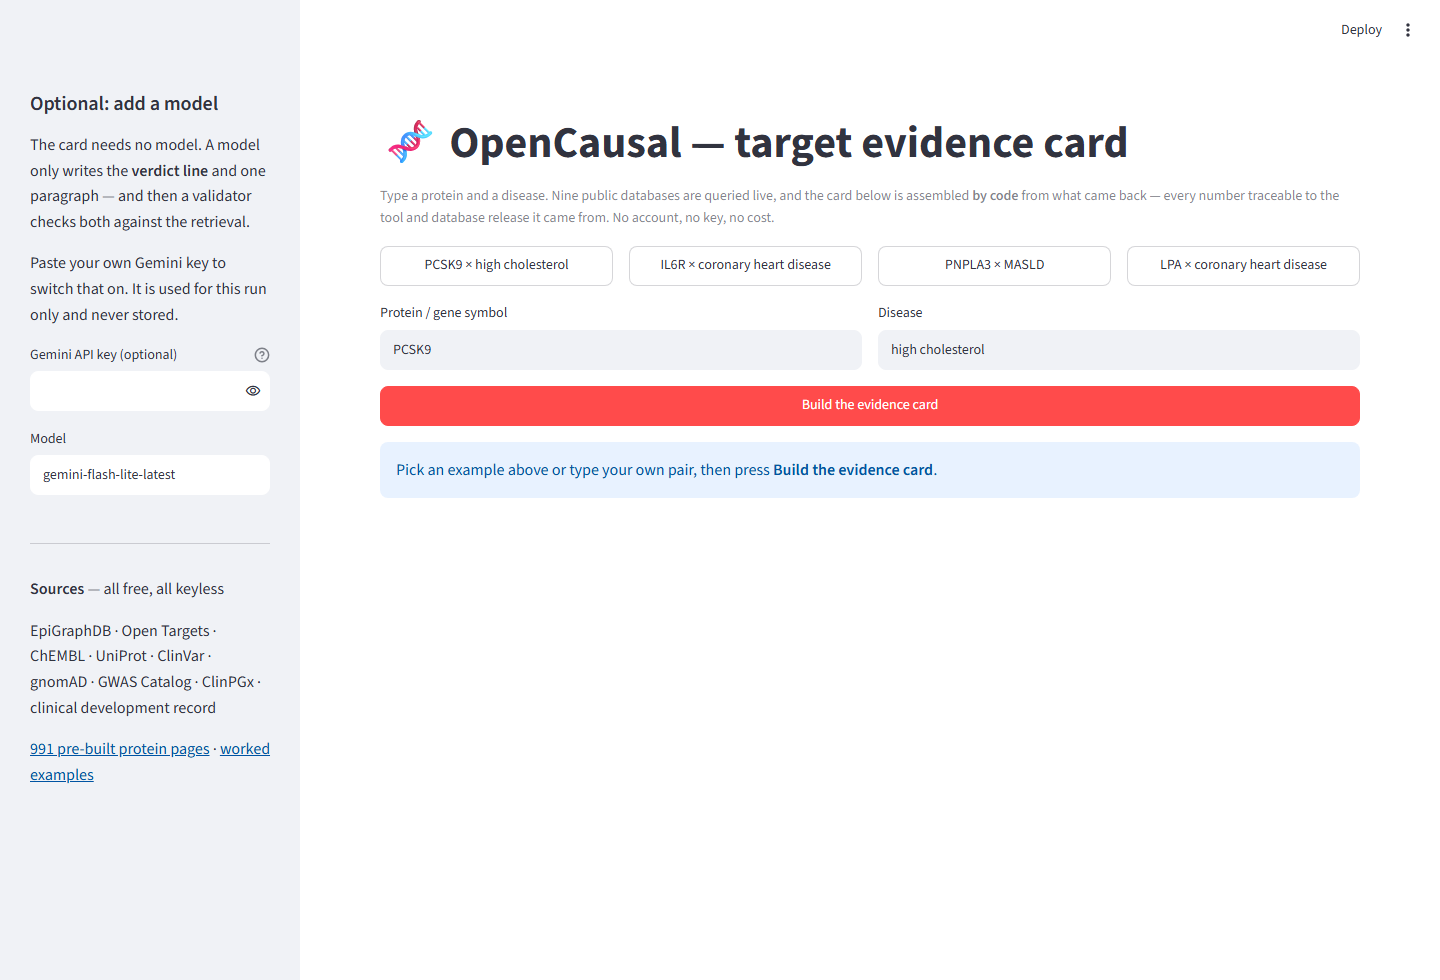
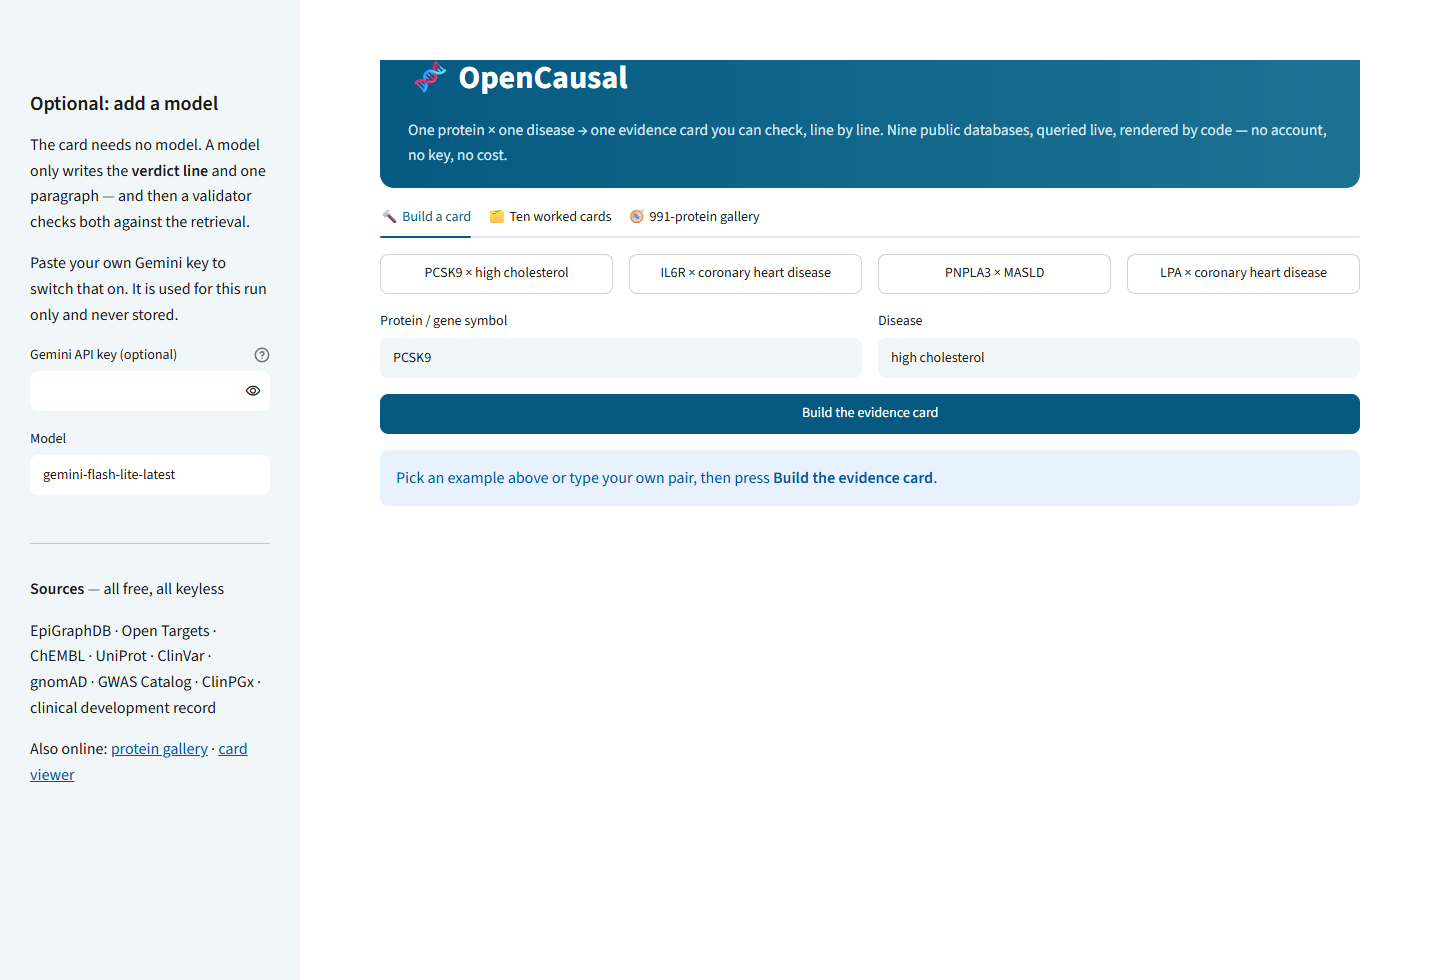
figs: retake app screenshots for the v0.6 three-tab UI (capture script -> port 8501)

diff --git a/app_screenshot.py b/app_screenshot.py
@@ -1,8 +1,8 @@
 # -*- coding: utf-8 -*-
-"""Screenshot the running OpenCausal app (localhost:8503) for README + deck."""
+"""Screenshot the running OpenCausal app (localhost:8501) for README + deck."""
 from playwright.sync_api import sync_playwright
 
-URL = "http://localhost:8503"
+URL = "http://localhost:8501"
 OUT = "figs"
 
 with sync_playwright() as p:
